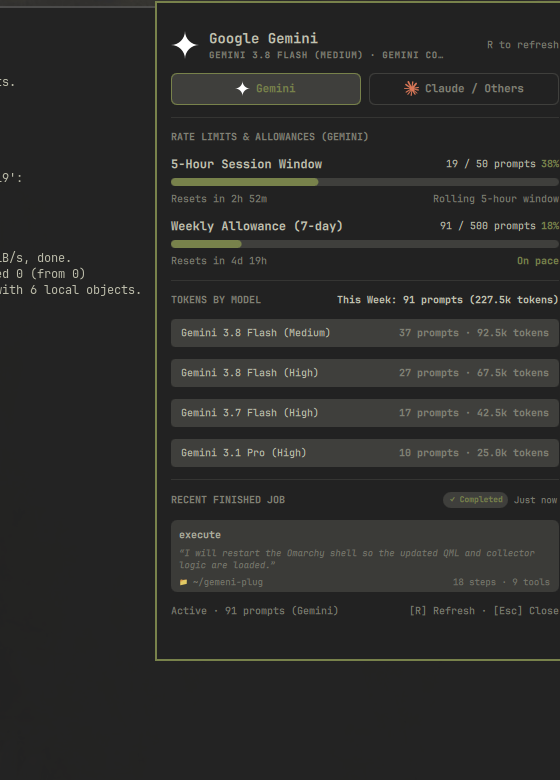
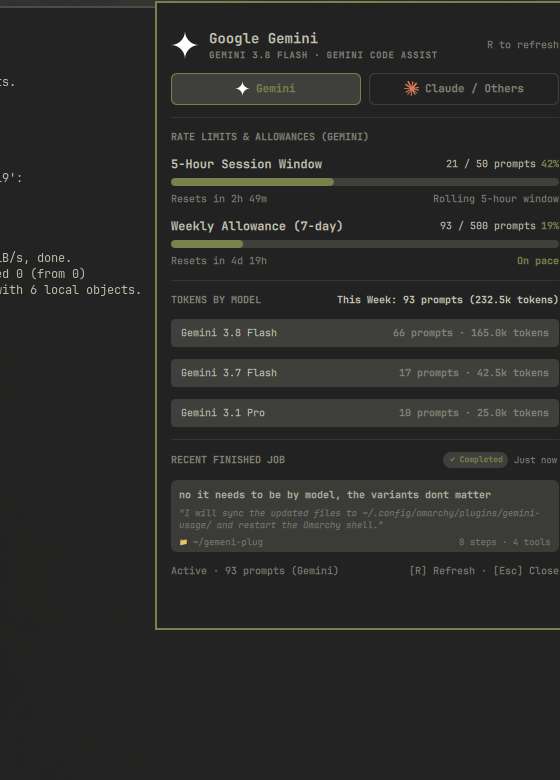
Group tokens purely by model, stripping effort and thinking variants

diff --git a/collector.py b/collector.py
@@ -40,6 +40,14 @@ def get_paths():
     }
 
 
+def canonical_model(name):
+    if not name:
+        return "Unknown"
+    # Strip any parenthetical variant/effort e.g. (High), (Medium), (Thinking)
+    cleaned = re.sub(r"\s*\([^)]*\)", "", name).strip()
+    return cleaned or name.strip()
+
+
 def get_category(model_name):
     if not model_name:
         return "gemini"
@@ -73,7 +81,7 @@ def build_conversation_timelines(paths):
                         if not m:
                             m = re.search(r"Model Selection\` from .*? to ([A-Za-z0-9\s\.\(\)\-]+?)(?:\.\s|\n|$)", line)
                         if m:
-                            model_name = m.group(1).strip()
+                            model_name = canonical_model(m.group(1).strip())
                             try:
                                 step = json.loads(line)
                                 created = step.get("created_at")
@@ -140,6 +148,7 @@ def parse_history_by_category(paths, allowances, default_model):
     recent_dates = [(now - timedelta(days=i)).strftime("%Y-%m-%d") for i in range(6, -1, -1)]
 
     cid_timelines = build_conversation_timelines(paths)
+    canon_default = canonical_model(default_model)
 
     raw_buckets = {
         "gemini": init_category_bucket(),
@@ -161,7 +170,8 @@ def parse_history_by_category(paths, allowances, default_model):
                         cid = entry.get("conversationId")
                         ts = entry.get("timestamp", 0)
 
-                        model = resolve_model_at_ts(cid_timelines, cid, ts, default_model)
+                        model = resolve_model_at_ts(cid_timelines, cid, ts, canon_default)
+                        model = canonical_model(model)
                         cat = get_category(model)
                         b = raw_buckets[cat]
 
@@ -185,7 +195,7 @@ def parse_history_by_category(paths, allowances, default_model):
                             if b["oldest_in_7d"] is None or ts < b["oldest_in_7d"]:
                                 b["oldest_in_7d"] = ts
 
-                            # Accumulate weekly model tokens and prompt counts
+                            # Accumulate weekly model tokens and prompt counts by model
                             b["weekly_model_prompts"][model] = b["weekly_model_prompts"].get(model, 0) + 1
                             b["weekly_model_tokens"][model] = b["weekly_model_tokens"].get(model, 0) + 2500
 
@@ -302,7 +312,7 @@ def parse_history_by_category(paths, allowances, default_model):
         if today_tokens == 0 and b["today_prompts"] > 0:
             today_tokens = b["today_prompts"] * 2500
 
-        # Build model_usage_list across weekly models
+        # Build model_usage_list across weekly models (variants grouped together)
         model_usage_list = []
         for m, t in b["weekly_model_tokens"].items():
             model_usage_list.append({
@@ -323,7 +333,7 @@ def parse_history_by_category(paths, allowances, default_model):
                 "todayPrompts": b["today_prompts"]
             })
         elif not model_usage_list:
-            default_label = "Gemini 3.8 Flash (High)" if cat_key == "gemini" else "Claude Opus 4.6 (Thinking)"
+            default_label = "Gemini 3.8 Flash" if cat_key == "gemini" else "Claude Opus 4.6"
             model_usage_list.append({
                 "name": default_label,
                 "tokens": weekly_tokens,
@@ -727,7 +737,7 @@ def main():
         "name": "Gemini",
         "displayName": "Google Gemini",
         "agentName": "Antigravity",
-        "model": meta["model_name"],
+        "model": canonical_model(meta["model_name"]),
         "tier": meta["tier_label"],
         "ready": meta["ready"],
         "activeCategory": active_category,
